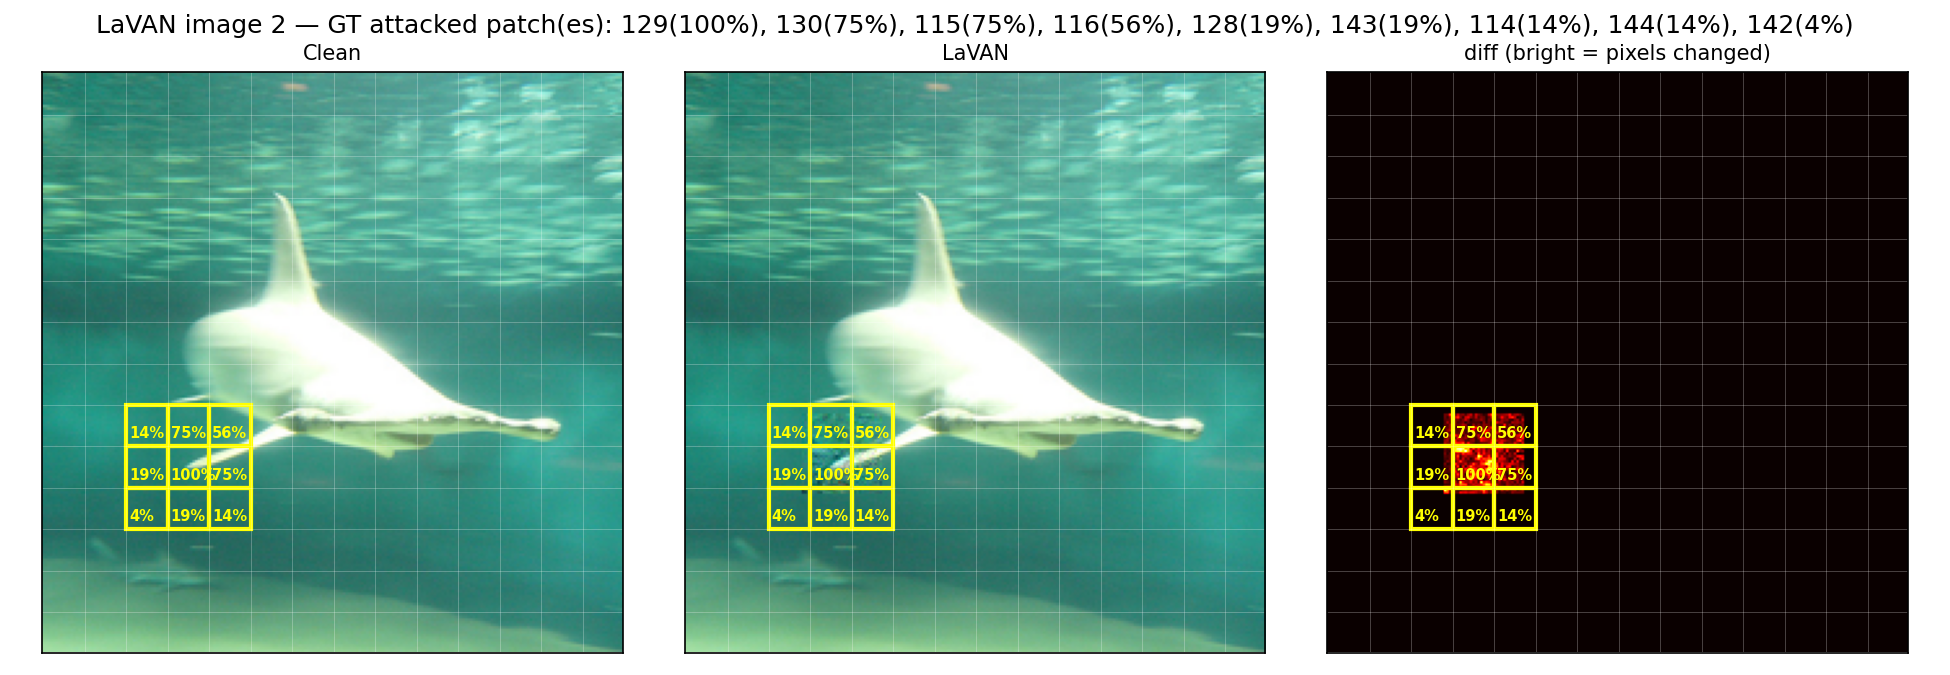
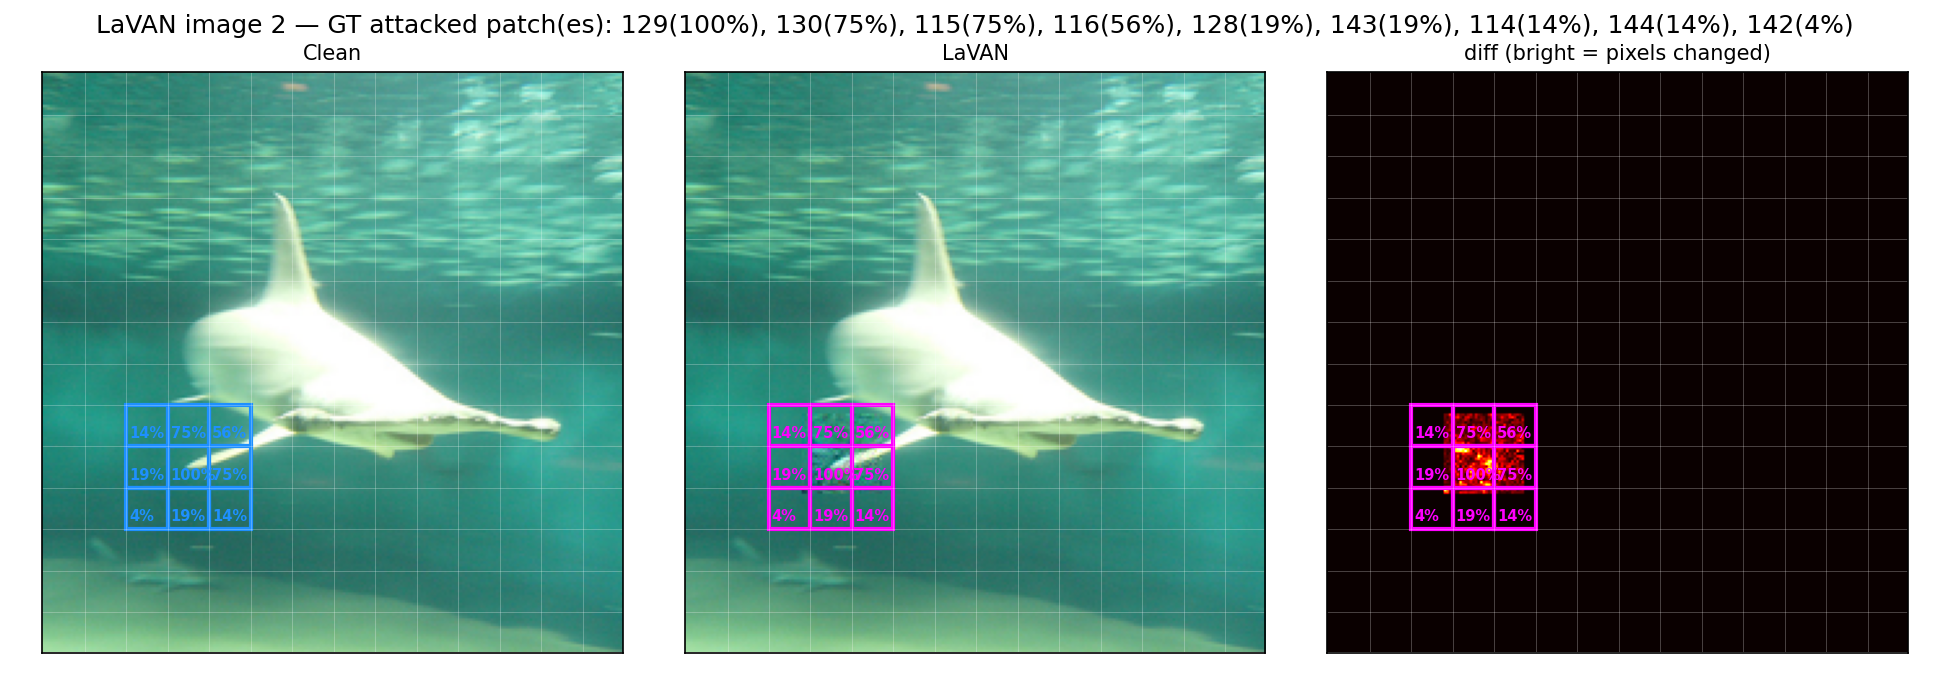
Drop redundant PatchFool coverage label, color-code GT boxes by group
PatchFool always attacks exactly one patch at 100% coverage, so the
per-box percentage label was pure noise there -- removed it (title still
lists the patch index). Kept it for LaVAN where partial overlap across
several patches is the actual point.

Also color the GT boxes per group (clean=dodgerblue, patchfool=lime,
lavan=magenta) instead of a single yellow for everything, including on
the clean panel -- keeping the clean panel's box (rather than removing
it) is what lets you visually compare the same region against the
attacked panel, and the distinct color makes it clear at a glance which
panel is which. Colors were chosen to stay visible against the diff
panel's 'hot' colormap (black/red/orange/yellow), which would have
washed out a red or orange box.

Changed region(s): [[0.7077, 0.5911, 0.8, 0.8089], [0.3692, 0.5911, 0.4615, 0.8089], [0.0615, 0.5911, 0.1538, 0.8089]]

diff --git a/01_patch_attack_detector/ground_truth/gt_plot.py b/01_patch_attack_detector/ground_truth/gt_plot.py
@@ -1,5 +1,5 @@
 """
-ground_truth/gt_overlay_plot.py — GT(gt_lib.gt_coverage, 픽셀 diff로 계산한 "공격이 실제로
+ground_truth/gt_plot.py — GT(gt_lib.gt_coverage, 픽셀 diff로 계산한 "공격이 실제로
 건드린 patch")를 원본/공격 이미지 위에 그려서 보여주는 그림 함수. attention이나 탐지기
 출력은 여기서 다루지 않는다 — 이 폴더의 역할은 정답 위치를 보여주는 것뿐이다.
 """
@@ -12,6 +12,11 @@ from matplotlib.patches import Rectangle
 from gt_lib import gt_patch_summary, PATCH_SIZE, PPL
 
 GROUP_LABELS = {'clean': 'Clean', 'patchfool': 'PatchFool', 'lavan': 'LaVAN'}
+# 박스 색을 clean/patchfool/lavan마다 다르게 둔다 — clean 패널도 박스를 지우지 않고(안
+# 지워야 같은 위치를 adv 패널과 바로 비교할 수 있다) 색만 다르게 해서 어느 그룹인지
+# 한눈에 구분되게 한다. diff 패널은 'hot' 컬러맵(검정->빨강->주황->노랑->흰색)을 쓰므로
+# 그 범위에 없는 색(파랑/라임/마젠타)을 골라 배경과 겹쳐도 항상 잘 보이게 했다.
+BOX_COLORS = {'clean': 'dodgerblue', 'patchfool': 'lime', 'lavan': 'magenta'}
 
 
 def _unnormalize(img):
@@ -36,13 +41,14 @@ def _draw_patch_box(ax, patch_idx, color, label=None, ppl=PPL, patch_size=PATCH_
 
 
 def plot_gt_locations(repr_by_group, img_idx, group, out_path, gt_min_frac=0.01):
-    """공격이 실제로 건드린 patch(들)을 [clean | adv | diff 히트맵] 세 장에 노란 박스로
-    표시하고, 박스마다 겹침 비율(%)을 적는다(100%든 아니든 전부 — PatchFool처럼 patch
-    하나가 100% 나올 때만 숨기면, LaVAN처럼 여러 patch가 섞인 그림에서 제일 많이 겹친
-    가운데 patch만 라벨이 비어 보여 오히려 헷갈린다). GT는 순전히 gt_lib.gt_coverage
-    (픽셀 diff)로 계산한 것이고, attention이나 탐지기 결과는 이 그림에 전혀 들어가지
-    않는다. repr_by_group[group]['images'/'gt_coverage']가 없으면(구버전 npz) 조용히
-    건너뛴다."""
+    """공격이 실제로 건드린 patch(들)을 [clean | adv | diff 히트맵] 세 장에 박스로 표시한다
+    (clean 패널도 박스를 지우지 않는다 — 지우면 adv 패널과 같은 위치인지 비교하기 어려워
+    지므로, 대신 clean은 BOX_COLORS['clean']으로 색을 다르게 줘서 구분한다). 겹침 비율(%)
+    라벨은 LaVAN처럼 patch가 여러 개·부분적으로 겹칠 때만 의미가 있어서 그때만 붙인다 —
+    PatchFool은 항상 patch 정확히 1개가 100%라 라벨 없이 박스만 그린다(title에 patch
+    번호는 그대로 나온다). GT는 순전히 gt_lib.gt_coverage(픽셀 diff)로 계산한 것이고,
+    attention이나 탐지기 결과는 이 그림에 전혀 들어가지 않는다.
+    repr_by_group[group]['images'/'gt_coverage']가 없으면(구버전 npz) 조용히 건너뛴다."""
     if 'images' not in repr_by_group.get('clean', {}) or \
        'images' not in repr_by_group.get(group, {}) or \
        'gt_coverage' not in repr_by_group.get(group, {}):
@@ -52,22 +58,28 @@ def plot_gt_locations(repr_by_group, img_idx, group, out_path, gt_min_frac=0.01)
     adv_img = repr_by_group[group]['images'][img_idx]
     gt_cov = repr_by_group[group]['gt_coverage'][img_idx]
     gt_patches = gt_patch_summary(gt_cov, min_frac=gt_min_frac)
+    show_pct = (group != 'patchfool')
 
     diff = np.abs(_unnormalize(adv_img) - _unnormalize(clean_img)).sum(axis=-1)
 
     fig, axes = plt.subplots(1, 3, figsize=(13, 4.5))
-    for ax, img, title in [(axes[0], _unnormalize(clean_img), 'Clean'),
-                            (axes[1], _unnormalize(adv_img), f'{GROUP_LABELS[group]}'),
-                            (axes[2], diff, 'diff (bright = pixels changed)')]:
+    for ax, img, title, box_color in [
+            (axes[0], _unnormalize(clean_img), 'Clean', BOX_COLORS['clean']),
+            (axes[1], _unnormalize(adv_img), f'{GROUP_LABELS[group]}', BOX_COLORS[group]),
+            (axes[2], diff, 'diff (bright = pixels changed)', BOX_COLORS[group])]:
         cmap = None if img.ndim == 3 else 'hot'
         ax.imshow(img, cmap=cmap)
         _draw_patch_grid(ax)
         for p, frac in gt_patches:
-            _draw_patch_box(ax, p, 'yellow', label=f'{frac:.0%}')
+            label = f'{frac:.0%}' if show_pct else None
+            _draw_patch_box(ax, p, box_color, label=label)
         ax.set_xticks([]); ax.set_yticks([])
         ax.set_title(title, fontsize=10)
 
-    gt_str = ', '.join(f'{p}({frac:.0%})' for p, frac in gt_patches) or 'none'
+    if show_pct:
+        gt_str = ', '.join(f'{p}({frac:.0%})' for p, frac in gt_patches) or 'none'
+    else:
+        gt_str = ', '.join(str(p) for p, _ in gt_patches) or 'none'
     fig.suptitle(f'{GROUP_LABELS[group]} image {img_idx} — GT attacked patch(es): {gt_str}')
     plt.tight_layout()
     plt.savefig(out_path, dpi=150)
